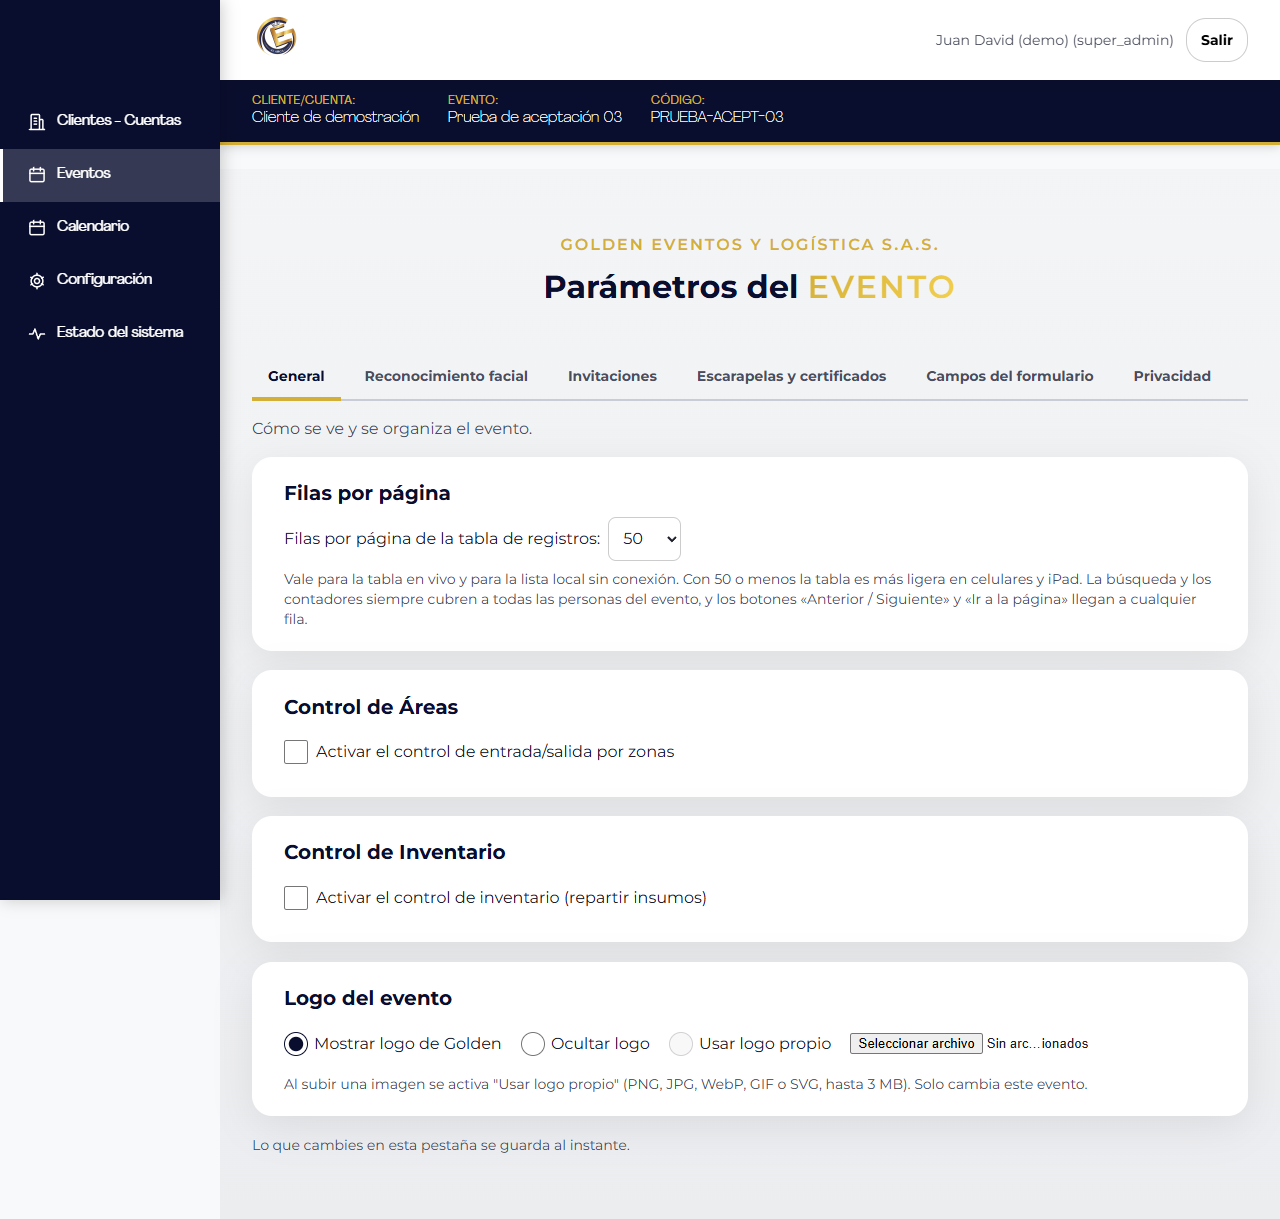
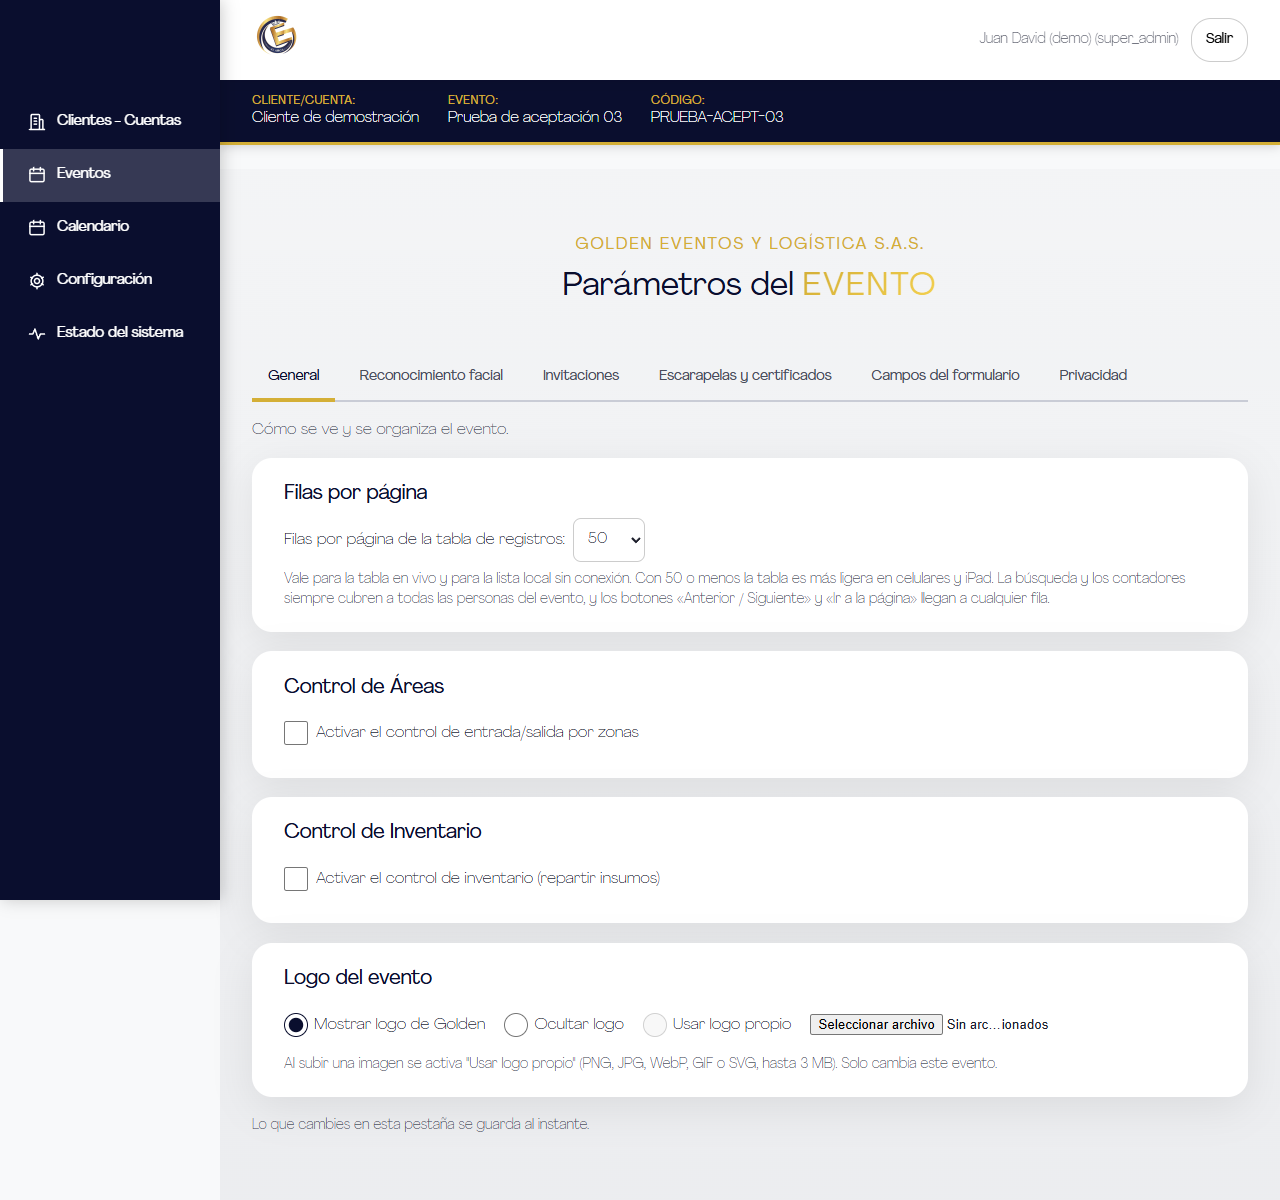
UX: Agrandir sigue siendo la fuente por defecto (se quita Montserrat del panel y de /aceptar); medición del peso Thin y de la licencia; capturas iPad/Android

diff --git a/static/css/ux1.css b/static/css/ux1.css
@@ -1,12 +1,13 @@
 /* Fase 1 de UX (rama ux/fase1-visual): sistema visual del panel. SOLO presentación.
    Se activa con `body.ux1` (opt-in por página): la puerta (/kiosk/<id>/rostro), la contingencia y las páginas públicas NO lo cargan.
-   Base: la página pública /aceptar (Montserrat, tarjeta blanca, botones dorados, un botón principal).
+   Base: la página pública /aceptar (Agrandir, tarjeta blanca, botones dorados, un botón principal).
    Medido en docs/ux/ANALISIS_FLUJO_Y_UX.md: 320 de 441 tamaños < 14 px; grises #777…#bbb y #b26a00 por debajo de 4,5:1; casillas de 18 px. */
 
 /* ------------------------------------------------------------------ tokens */
 :root {
   /* tipografía: cuerpo 16/24; escala fija de 5 tamaños (WCAG 1.4.4, Material 3 type scale) */
-  --ux-font: 'Montserrat', 'Agrandir', system-ui, -apple-system, 'Segoe UI', Roboto, sans-serif;
+  --ux-font: var(--font-body, 'Agrandir', sans-serif);              /* Agrandir de siempre (style.css) y lo que se elija en Configuración > Apariencia: el rediseño no impone otra fuente */
+  --ux-font-heading: var(--font-heading-secondary, 'Agrandir', sans-serif);
   --ux-fs-display: 2rem;      /* 32 px */
   --ux-fs-title: 1.5rem;      /* 24 px */
   --ux-fs-subtitle: 1.25rem;  /* 20 px */
@@ -37,7 +38,7 @@
 
 /* ------------------------------------------------------------------ base */
 body.ux1 { font-family: var(--ux-font); font-size: var(--ux-fs-body); line-height: var(--ux-lh-body); color: var(--ux-ink); }
-body.ux1 h1, body.ux1 h2, body.ux1 h3, body.ux1 h4, body.ux1 .mode-title { font-family: var(--ux-font); color: var(--ux-navy); }
+body.ux1 h1, body.ux1 h2, body.ux1 h3, body.ux1 h4, body.ux1 .mode-title { font-family: var(--ux-font-heading); color: var(--ux-navy); }
 body.ux1 h2 { font-size: var(--ux-fs-display); line-height: 2.5rem; }
 body.ux1 h3 { font-size: var(--ux-fs-subtitle); line-height: 1.75rem; }
 body.ux1 h4 { font-size: var(--ux-fs-subtitle); line-height: 1.75rem; margin-bottom: var(--ux-s3); }

diff --git a/templates/aceptar.html b/templates/aceptar.html
@@ -5,11 +5,11 @@
 <meta name="viewport" content="width=device-width, initial-scale=1">
 <meta name="robots" content="noindex">
 <title>Reconocimiento facial voluntario</title>
-<link rel="stylesheet" href="{{ url_for('static', path='css/montserrat.css') }}">
+<link rel="stylesheet" href="{{ url_for('static', path='css/agrandir.css') }}">
 <style>
-  /* Mismo estándar visual de las páginas públicas (form_public.html): Montserrat, fondo claro, tarjeta blanca y botones dorados. */
+  /* Mismo estándar visual de las páginas públicas (form_public.html): Agrandir, fondo claro, tarjeta blanca y botones dorados. */
   :root { --ink:#1b1d2a; --bg:#F4F5F9; --card:#FFFFFF; --muted:#555; --line:#c9ccd6; --gold:#D4AF37; --dark:#0a0e2e; }
-  body { margin:0; background:var(--bg); color:var(--ink); font-family:'Montserrat', sans-serif; line-height:1.55; padding:24px 14px 50px; box-sizing:border-box; }
+  body { margin:0; background:var(--bg); color:var(--ink); font-family:'Agrandir', sans-serif; line-height:1.55; padding:24px 14px 50px; box-sizing:border-box; }
   main { max-width:640px; margin:0 auto; background:var(--card); border-radius:18px; box-shadow:0 6px 24px rgba(10,14,46,.08); padding:22px 20px 28px; }
   .brand { text-align:center; margin-bottom:6px; }
   .brand img { max-height:64px; max-width:70%; object-fit:contain; }

diff --git a/static/css/agrandir.css b/static/css/agrandir.css
@@ -1,0 +1,3 @@
+/* Agrandir (tipografía por defecto de TODA la app, Sprint 2.4 Fase 9) para las páginas que no cargan style.css, p. ej. /aceptar. Mismos dos archivos y mismos pesos que style.css: Thin para el texto normal, Regular para 600 o más. */
+@font-face { font-family: 'Agrandir'; src: url('../fonts/agrandir-thin.ttf') format('truetype'); font-weight: 100 500; font-style: normal; font-display: swap; }
+@font-face { font-family: 'Agrandir'; src: url('../fonts/agrandir-regular.otf') format('opentype'); font-weight: 600 900; font-style: normal; font-display: swap; }

diff --git a/templates/_ux_head.html b/templates/_ux_head.html
@@ -1,3 +1,2 @@
-{# Cabecera común de las páginas con el sistema visual de la Fase 1 (body.ux1): la misma fuente (alojada en static/fonts, sin pedir nada a Google) que la página pública /aceptar y los tokens de static/css/ux1.css. #}
-<link rel="stylesheet" href="{{ url_for('static', path='css/montserrat.css') }}">
+{# Cabecera común de las páginas con el sistema visual de la Fase 1 (body.ux1): los tokens de static/css/ux1.css. #}
 <link rel="stylesheet" href="{{ url_for('static', path='css/ux1.css') }}">

diff --git a/tests/test_ux_fase1.py b/tests/test_ux_fase1.py
@@ -181,18 +181,20 @@ def test_no_page_asks_a_third_party_for_fonts_except_the_listed_legacy_pickers()
         assert page not in offenders, page
 
 
-def test_montserrat_is_served_from_our_own_static_files(client, factory, db):
-    css = open("static/css/montserrat.css", encoding="utf-8").read()
-    files = re.findall(r"url\('\.\./fonts/([\w.-]+\.woff2)'\)", css)
-    assert len(files) == 3 and not any(h in css for h in FONT_HOSTS)
-    for name in files:
+def test_agrandir_stays_the_default_font_everywhere_and_the_redesign_imposes_no_other(client, factory, db):
+    css = open("static/css/ux1.css", encoding="utf-8").read()
+    assert "--ux-font: var(--font-body" in css and "--ux-font-heading: var(--font-heading-secondary" in css and "Montserrat" not in css      # sigue lo que diga Configuración > Apariencia
+    assert not __import__("pathlib").Path("static/css/montserrat.css").exists()
+    own = open("static/css/agrandir.css", encoding="utf-8").read()
+    assert own.count("@font-face") == 2 and "agrandir-thin.ttf" in own and "agrandir-regular.otf" in own
+    for name in ("agrandir-thin.ttf", "agrandir-regular.otf"):
         assert client.get(f"/static/fonts/{name}").status_code == 200, name
     ev = _event(client, factory, "coordinador", facial_enabled=True, aceptar_enabled=True)
-    assert "css/montserrat.css" in client.get(f"/kiosk/{ev.id}").text and "fonts.g" not in client.get(f"/kiosk/{ev.id}").text
-    ev.facial_enabled, ev.aceptar_enabled = True, True
-    db.commit()
+    menu = client.get(f"/kiosk/{ev.id}").text
+    assert "css/style.css" in menu and "montserrat" not in menu.lower() and "fonts.g" not in menu
     client.cookies.clear()
-    assert "css/montserrat.css" in client.get(f"/aceptar/{ev.event_code}").text and "fonts.g" not in client.get(f"/aceptar/{ev.event_code}").text
+    page = client.get(f"/aceptar/{ev.event_code}").text
+    assert "css/agrandir.css" in page and "font-family:'Agrandir'" in page and "Montserrat" not in page and "fonts.g" not in page
 
 
 def test_a_tab_is_marked_saved_only_when_the_real_save_finishes_ok(client, factory, db):

diff --git a/docs/ux/MEDICION_AGRANDIR.md b/docs/ux/MEDICION_AGRANDIR.md
@@ -1,0 +1,21 @@
+# Agrandir en el rediseño: qué se midió (17 oct 2026)
+
+El panel y `/aceptar` usan **Agrandir** (decisión del dueño, Sprint 2.4 Fase 9): `agrandir-thin.ttf` para el texto normal (pesos 100–500) y `agrandir-regular.otf` para 600 o más. El rediseño ya no impone otra fuente: `--ux-font` sigue a `--font-body` y los títulos a `--font-heading-secondary`, así que lo que se elija en Configuración > Apariencia manda.
+
+## Grosor del trazo (del propio archivo de la fuente)
+| Peso | Tallo de la «l» | A 16 px |
+|---|---|---|
+| Thin (hoy el cuerpo) | 0,040 em | **0,64 px** (menos de un píxel: se dibuja como un gris, no como negro) |
+| Regular | 0,076 em | 1,22 px |
+
+## Contraste real en pantalla (Chrome, texto real; núcleo del trazo = 0,25 % de píxeles más oscuros)
+| Texto | Pantalla | Contraste del color | Thin: núcleo del trazo | Regular: núcleo |
+|---|---|---|---|---|
+| Cuerpo 16 px, tinta #1b1d2a | normal (1×) | 16,7:1 | **8,8:1** | 16,7:1 |
+| Ayuda 14 px, gris #4a4d5c | normal (1×) | 8,4:1 | **5,0:1** | 8,4:1 |
+| Cuerpo y ayuda | iPad / celular (2×) | 16,7 y 8,4:1 | igual al nominal | igual |
+
+Conclusión: con Thin los colores cumplen 4,5:1 sobre el papel, pero en un monitor normal el texto de ayuda llega a 5,0:1 en el trazo (apenas por encima del límite; con un gris un poco más claro ya no cumpliría), y se ve visiblemente más pálido que con Regular (ver `capturas/agrandir_ipad_parametros.png`). En pantallas de alta densidad (iPad, celulares) el trazo sí se renderiza completo. Propuesta (no aplicada, decide el dueño): usar Regular (peso 600) solo para texto de ayuda, etiquetas y campos de formulario de 14–16 px; Thin se queda en los textos de 18 px o más.
+
+## Licencia
+Los archivos traen: «Copyright © 2018 by Alexander Slobzheninov. All rights reserved.» No traen texto de licencia, ni URL de licencia; el campo de permisos de incrustación (`fsType`) vale 4 («solo vista previa e impresión»), que en la práctica no autoriza servirla como fuente web. En el repositorio no consta ninguna licencia web (`docs/historial.md` solo dice «fuente comercial… provista por Juan David»). Hay que pedirle al proveedor la licencia web y guardarla en `docs/legal/`.
